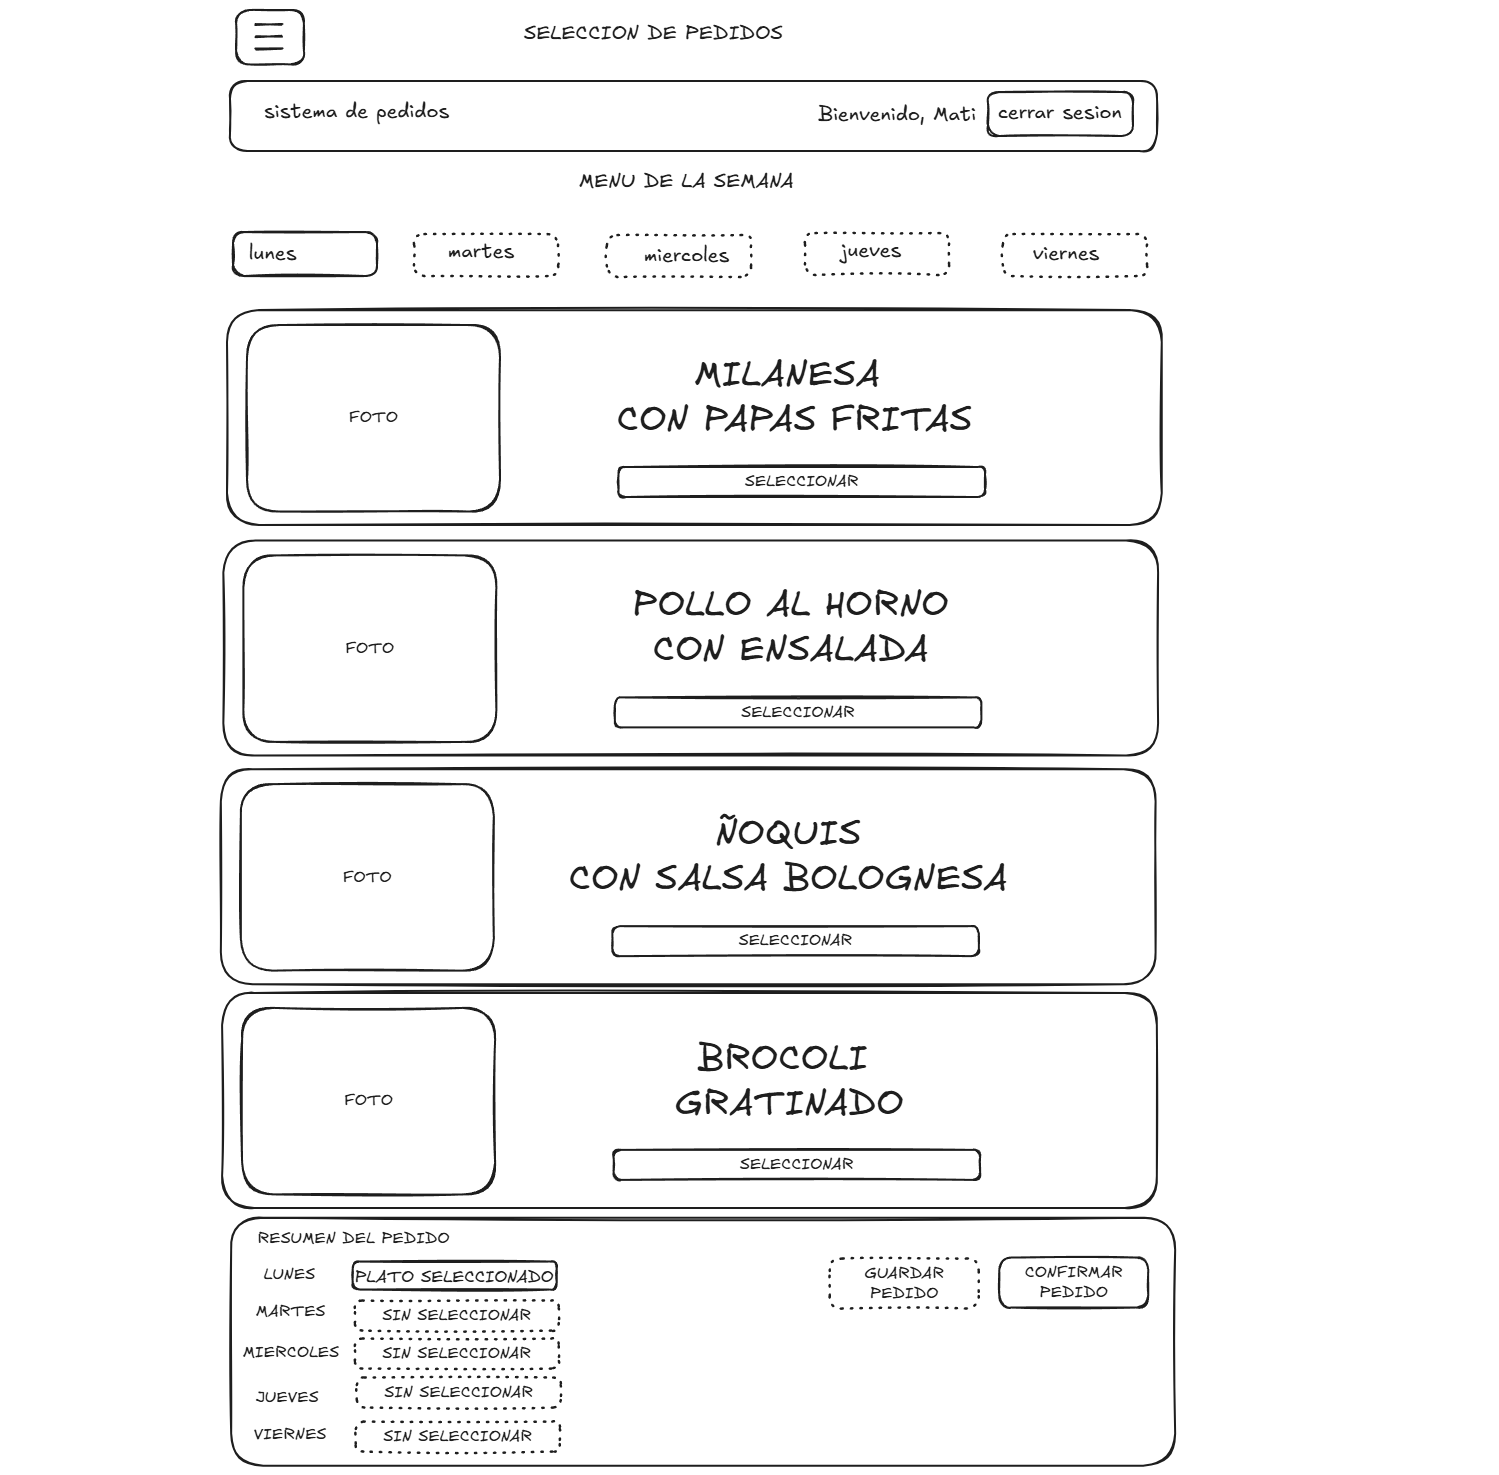
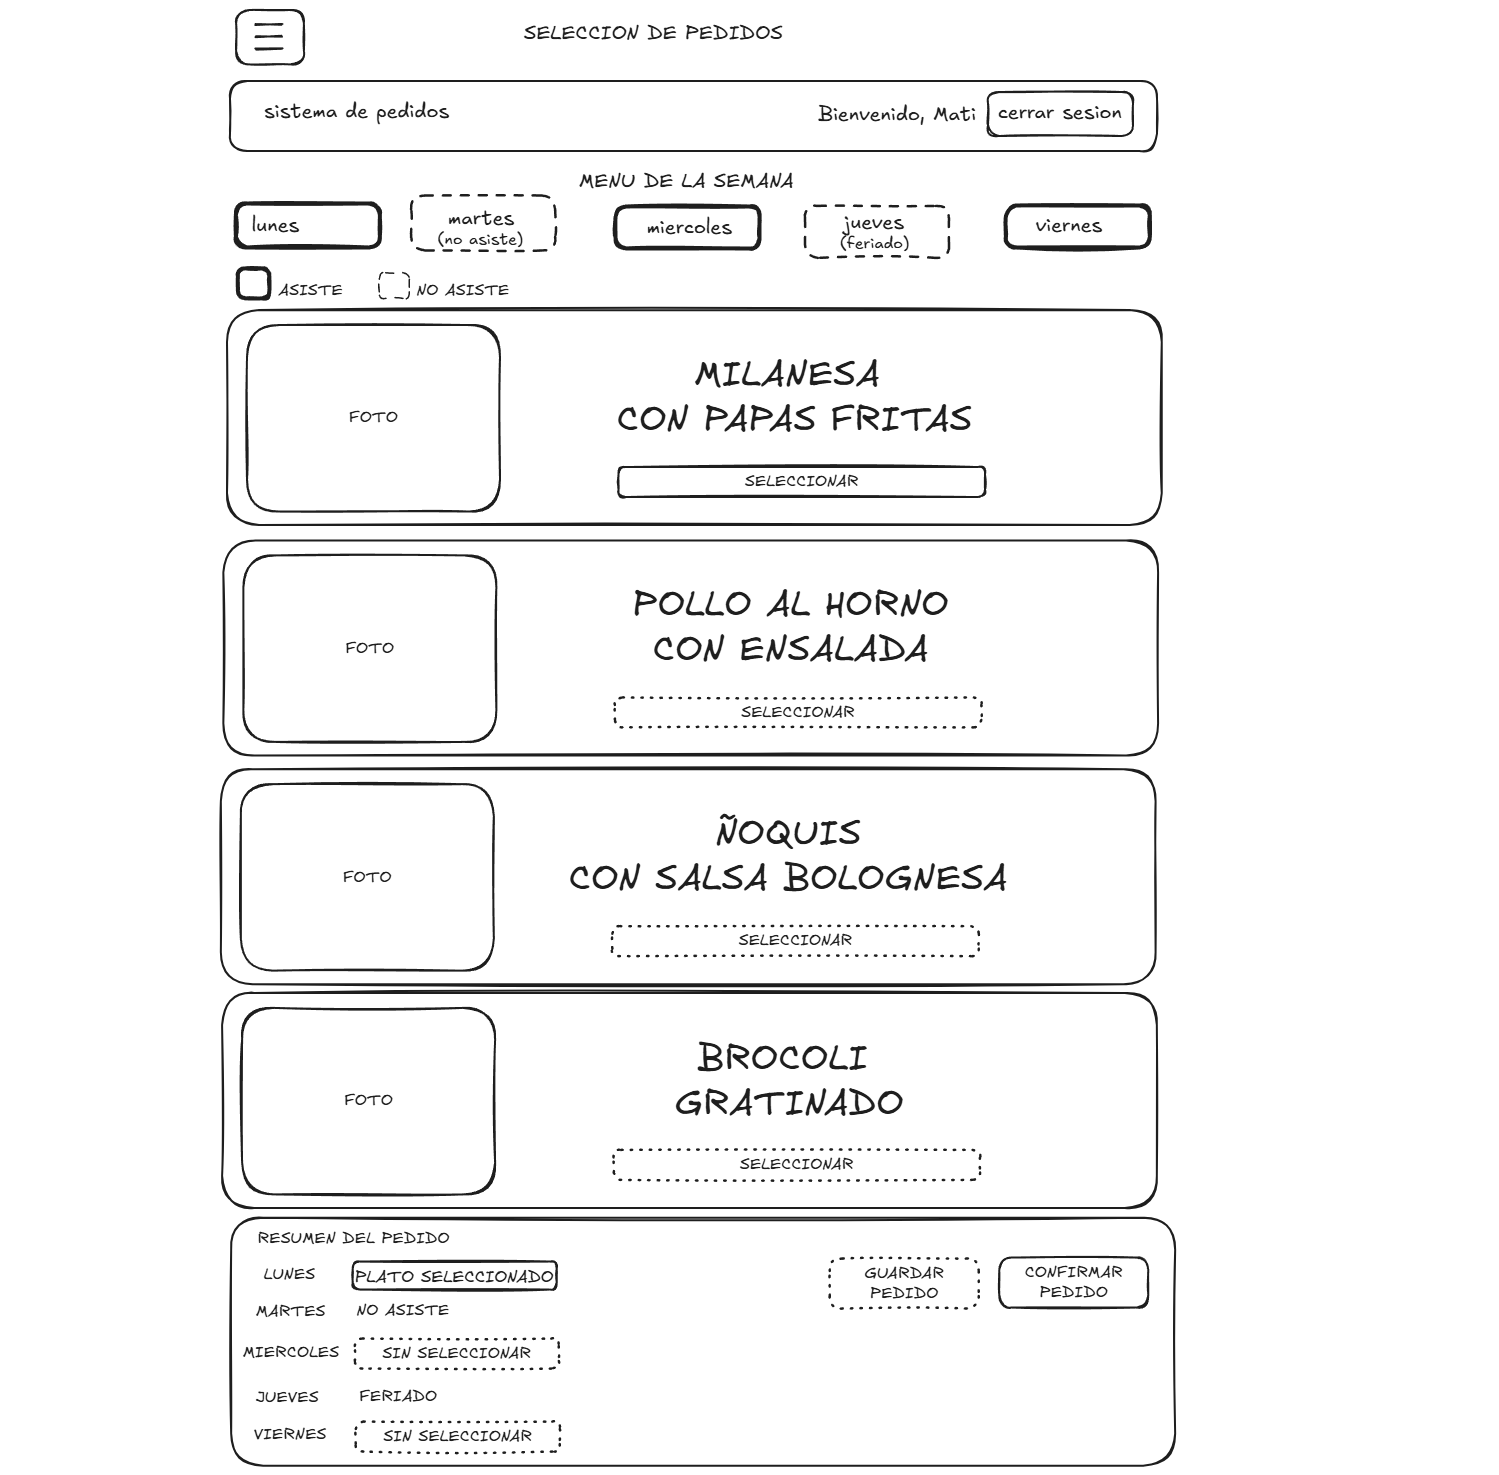
menu.html.

diff --git a/frontend/menu.html b/frontend/menu.html
@@ -1,0 +1,61 @@
+<!DOCTYPE html>
+<html lang="es">
+<head>
+    <meta charset="UTF-8">
+    <title>Menu semanal</title>
+</head>
+<body>
+  <header>
+    <p>Sistema de pedidos</p>
+    <p>Bienvenido, Mati</p>
+    <a href="login.html">Cerrar sesión</a>
+  </header>
+  <nav>
+    <a href="#">Lunes</a>
+    <a href="#">Martes (no asiste)</a>
+    <a href="#">Miércoles</a>
+    <a href="#">Jueves (feriado)</a>
+    <a href="#">Viernes</a>
+  </nav>
+  <main>
+    <section>
+      <article>
+        <img src="assets/img/milanesa.jpg" alt="Milanesa con papas fritas">
+        <h2>Milanesa con papas fritas</h2>
+        <p>Milanesa napolitana con papas fritas</p>
+        <button type="button">Seleccionar</button>
+      </article>
+      <article>
+        <img src="assets/img/pollo.jpg" alt="Pollo al horno con ensalada">
+        <h2>Pollo al horno con ensalada</h2>
+        <p>Pollo al horno acompañado de ensalada mixta</p>
+        <button type="button">Seleccionar</button>
+      </article>
+      <article>
+        <img src="assets/img/noquis.jpg" alt="Ñoquis con salsa bolognesa">
+        <h2>Ñoquis con salsa bolognesa</h2>
+        <p>Ñoquis caseros con salsa bolognesa</p>
+        <button type="button">Seleccionar</button>
+      </article>
+      <article>
+        <img src="assets/img/brocoli.jpg" alt="Brócoli gratinado">
+        <h2>Brócoli gratinado</h2>
+        <p>Brócoli al horno con queso gratinado</p>
+        <button type="button">Seleccionar</button>
+      </article>
+    </section>
+    <aside>
+      <h3>Resumen del pedido</h3>
+      <p>Lunes: <span>Plato seleccionado</span></p>
+      <p>Martes: <span>No asiste</span></p>
+      <p>Miércoles: <span>Sin seleccionar</span></p>
+      <p>Jueves: <span>Feriado</span></p>
+      <p>Viernes: <span>Sin seleccionar</span></p>
+      <form>
+        <button type="submit" name="accion" value="borrador">Guardar borrador</button>
+        <button type="submit" name="accion" value="confirmar">Confirmar pedido</button>
+      </form>
+    </aside>
+  </main>
+</body>
+</html>